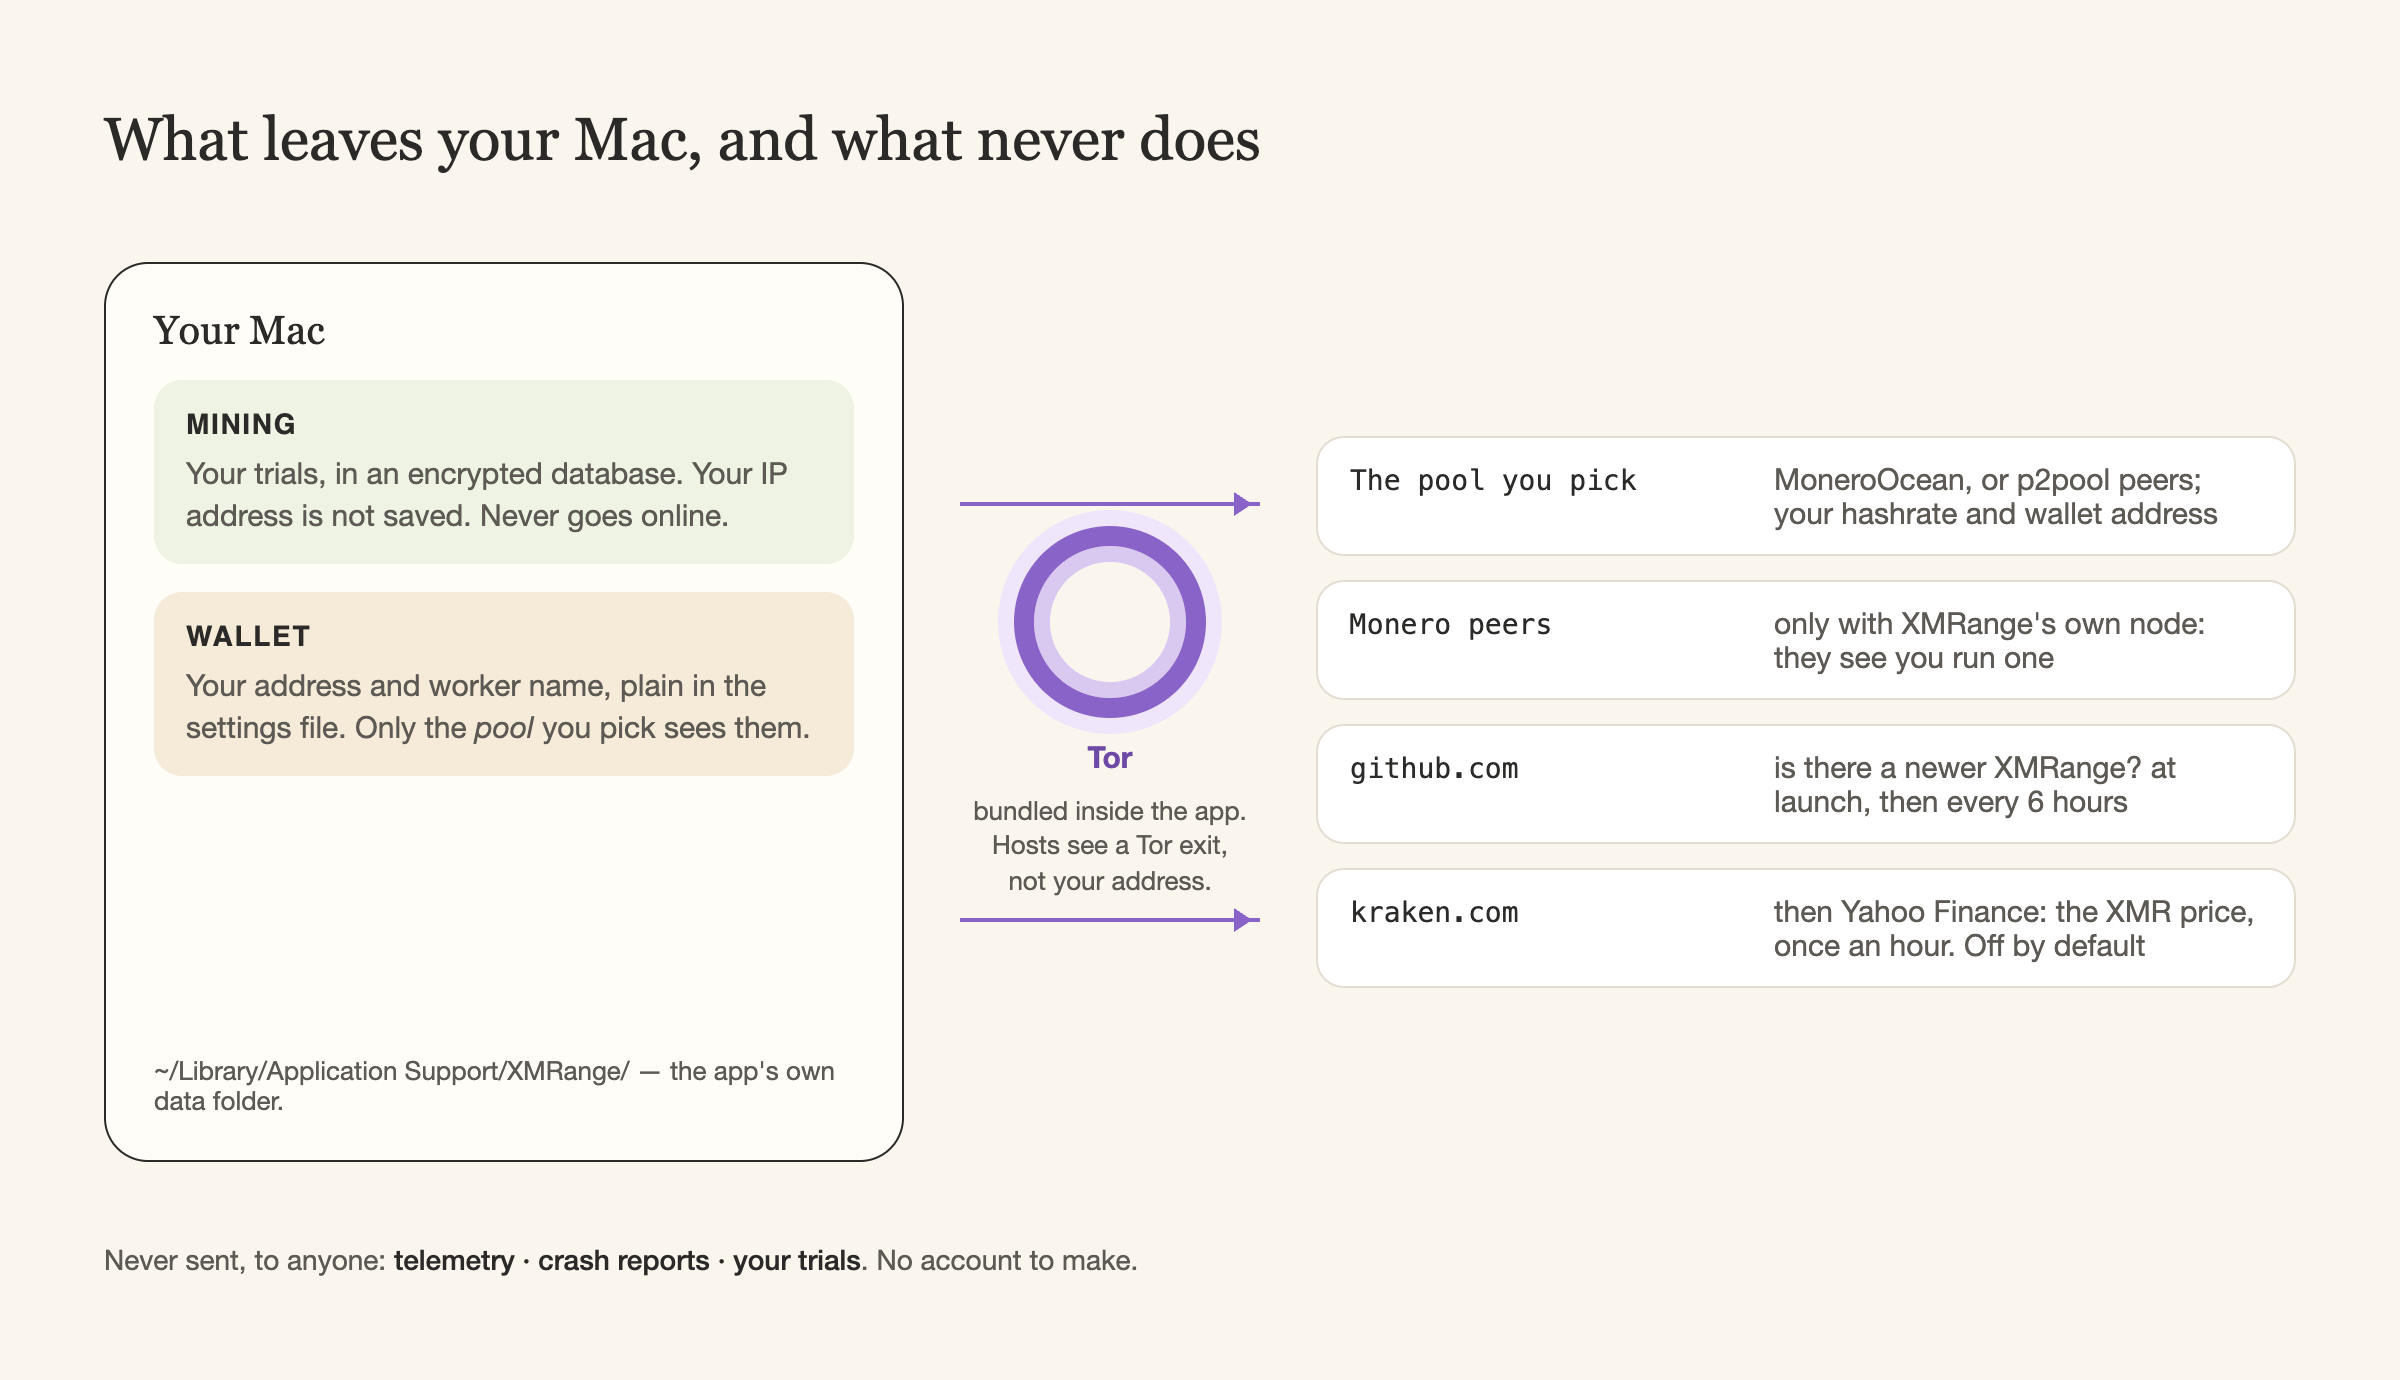
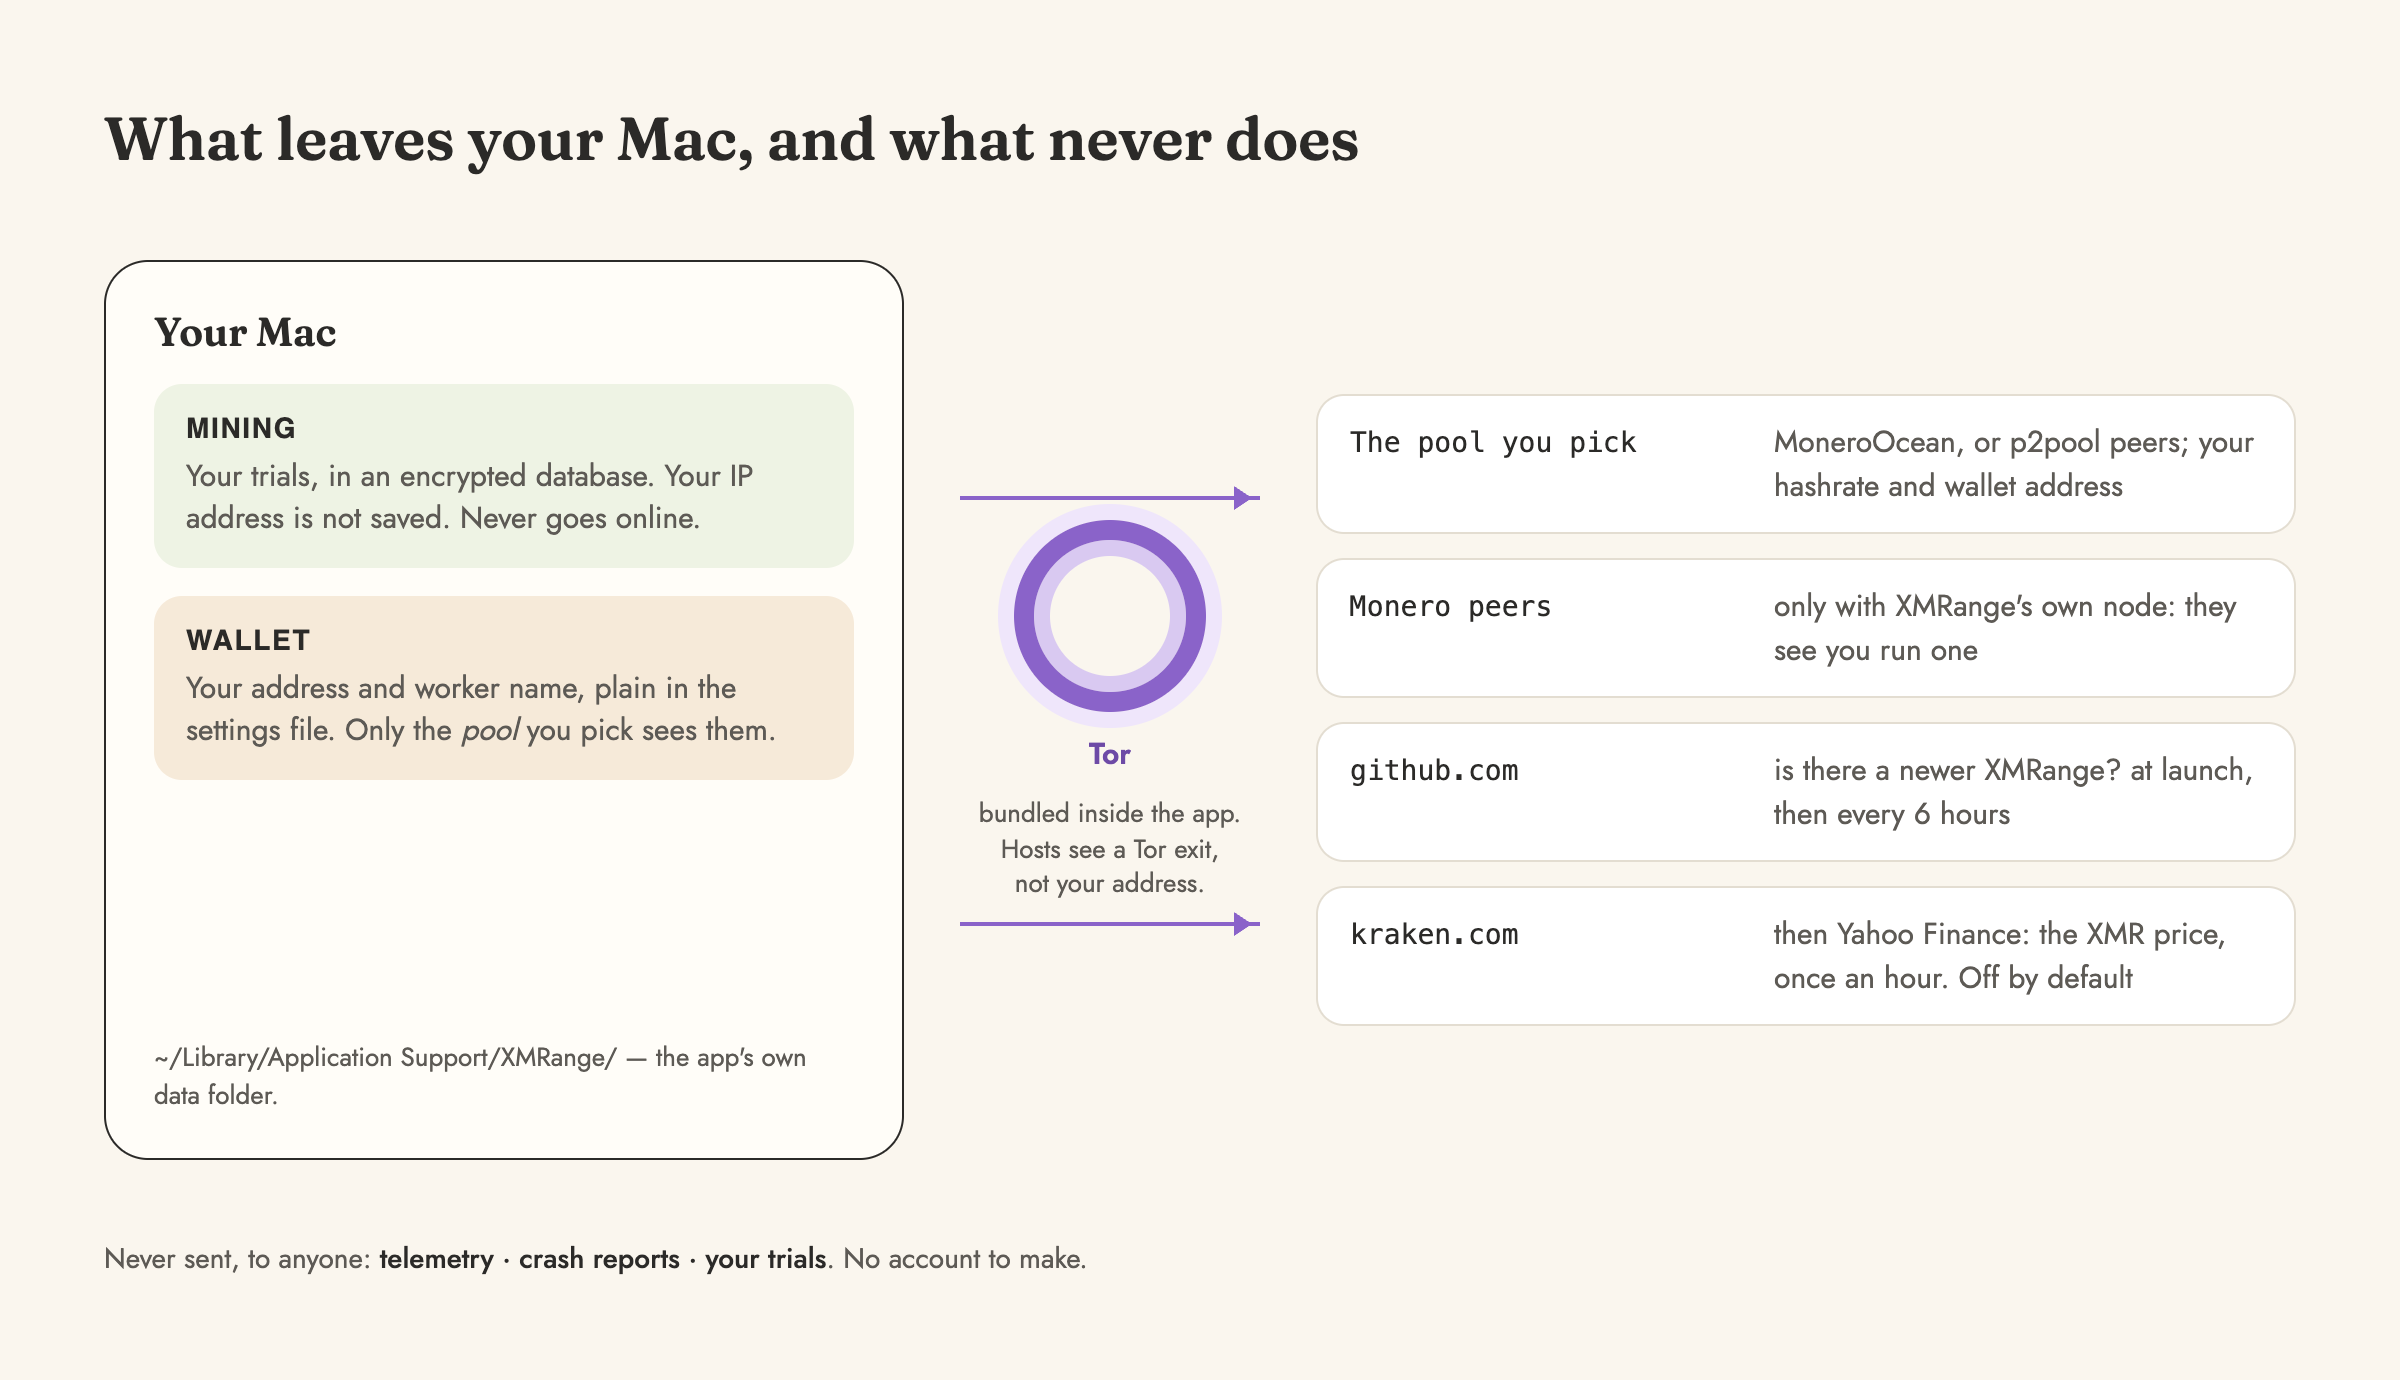
docs: diagrams in House fonts

diff --git a/tools/docs-shots/diagrams/trial-math.html b/tools/docs-shots/diagrams/trial-math.html
@@ -1,7 +1,14 @@
 <!doctype html><meta charset="utf-8"><title>What a trial computes</title>
+<style>
+@font-face{font-family:Fraunces;font-weight:400;src:url(../../../assets/fonts/fraunces-latin-400-normal.woff2)}
+@font-face{font-family:Fraunces;font-weight:500 600;src:url(../../../assets/fonts/fraunces-latin-600-normal.woff2)}
+@font-face{font-family:Jost;font-weight:400;src:url(../../../assets/fonts/jost-latin-400-normal.woff2)}
+@font-face{font-family:Jost;font-weight:500;src:url(../../../assets/fonts/jost-latin-500-normal.woff2)}
+@font-face{font-family:Jost;font-weight:600 700;src:url(../../../assets/fonts/jost-latin-600-normal.woff2)}
+</style>
 <style>*{box-sizing:border-box;margin:0}
-body{width:1200px;height:440px;background:#faf6ee;font:16px -apple-system,"Helvetica Neue",Helvetica,Arial,sans-serif;color:#2b2a28;padding:44px 52px}
-h1{font:500 30px Georgia,"Iowan Old Style",serif;margin-bottom:30px}
+body{width:1200px;height:440px;background:#faf6ee;font:16px Jost,Helvetica,sans-serif;color:#2b2a28;padding:44px 52px}
+h1{font:500 30px Fraunces,serif;margin-bottom:30px}
 .sub{color:#5d5a55;font-size:14px}
 .box{border:1.5px solid #2b2a28;border-radius:18px;background:#fffdf8;padding:20px 24px}
 .card{background:#fff;border:1px solid #e3ddd1;border-radius:14px;padding:14px 18px}
@@ -12,9 +19,9 @@ p{color:#5d5a55;line-height:1.4}
 .arrow:after{content:"";position:absolute;right:-2px;top:-5px;border:6px solid transparent;border-left:9px solid #8a63c9}
 code{font:500 14px ui-monospace,Menlo,monospace}
 .eq{display:flex;align-items:center;gap:22px;margin-bottom:34px}
-.eq .op{font:500 40px Georgia,serif;color:#8a63c9}
+.eq .op{font:500 40px Fraunces,serif;color:#8a63c9}
 .eq .t{flex:1;text-align:center;padding:22px 16px}
-.eq .t b{display:block;font:500 26px Georgia,serif;margin-bottom:4px}
+.eq .t b{display:block;font:500 26px Fraunces,serif;margin-bottom:4px}
 .res{background:#eef3e4;border-color:#d6e0c3}
 .row{display:grid;grid-template-columns:1fr 1fr 1fr;gap:16px;margin-bottom:26px}
 .bar{display:flex;height:44px;border-radius:12px;overflow:hidden;font-weight:600;font-size:14px}

diff --git a/tools/docs-shots/diagrams/trial-flow.html b/tools/docs-shots/diagrams/trial-flow.html
@@ -1,7 +1,14 @@
 <!doctype html><meta charset="utf-8"><title>From trials to profiles</title>
+<style>
+@font-face{font-family:Fraunces;font-weight:400;src:url(../../../assets/fonts/fraunces-latin-400-normal.woff2)}
+@font-face{font-family:Fraunces;font-weight:500 600;src:url(../../../assets/fonts/fraunces-latin-600-normal.woff2)}
+@font-face{font-family:Jost;font-weight:400;src:url(../../../assets/fonts/jost-latin-400-normal.woff2)}
+@font-face{font-family:Jost;font-weight:500;src:url(../../../assets/fonts/jost-latin-500-normal.woff2)}
+@font-face{font-family:Jost;font-weight:600 700;src:url(../../../assets/fonts/jost-latin-600-normal.woff2)}
+</style>
 <style>*{box-sizing:border-box;margin:0}
-body{width:1200px;height:480px;background:#faf6ee;font:16px -apple-system,"Helvetica Neue",Helvetica,Arial,sans-serif;color:#2b2a28;padding:44px 52px}
-h1{font:500 30px Georgia,"Iowan Old Style",serif;margin-bottom:30px}
+body{width:1200px;height:480px;background:#faf6ee;font:16px Jost,Helvetica,sans-serif;color:#2b2a28;padding:44px 52px}
+h1{font:500 30px Fraunces,serif;margin-bottom:30px}
 .sub{color:#5d5a55;font-size:14px}
 .box{border:1.5px solid #2b2a28;border-radius:18px;background:#fffdf8;padding:20px 24px}
 .card{background:#fff;border:1px solid #e3ddd1;border-radius:14px;padding:14px 18px}
@@ -16,9 +23,9 @@ code{font:500 14px ui-monospace,Menlo,monospace}
 .s{background:#fff;border:1px solid #e3ddd1;border-radius:12px;padding:10px 16px}
 .s b{font-weight:600}
 .m{text-align:center;padding:30px 16px;background:#efe6fb;border-color:#d9c9f1}
-.m b{display:block;font:500 24px Georgia,serif;margin-bottom:6px}
+.m b{display:block;font:500 24px Fraunces,serif;margin-bottom:6px}
 .p{display:grid;grid-template-columns:110px 1fr;gap:12px;align-items:baseline}
-.p b{font:500 22px Georgia,serif}
+.p b{font:500 22px Fraunces,serif}
 .cap{font-size:13px;letter-spacing:.06em;text-transform:uppercase;font-weight:600;margin-bottom:10px;color:#5d5a55}
 </style>
 <h1>From settings to Quiet, Balanced and Max</h1>

diff --git a/tools/docs-shots/diagrams/privacy-map.html b/tools/docs-shots/diagrams/privacy-map.html
@@ -1,10 +1,17 @@
 <!doctype html><meta charset="utf-8"><title>What leaves your Mac</title>
 <style>
+@font-face{font-family:Fraunces;font-weight:400;src:url(../../../assets/fonts/fraunces-latin-400-normal.woff2)}
+@font-face{font-family:Fraunces;font-weight:500 600;src:url(../../../assets/fonts/fraunces-latin-600-normal.woff2)}
+@font-face{font-family:Jost;font-weight:400;src:url(../../../assets/fonts/jost-latin-400-normal.woff2)}
+@font-face{font-family:Jost;font-weight:500;src:url(../../../assets/fonts/jost-latin-500-normal.woff2)}
+@font-face{font-family:Jost;font-weight:600 700;src:url(../../../assets/fonts/jost-latin-600-normal.woff2)}
+</style>
+<style>
 *{box-sizing:border-box;margin:0}
-body{width:1200px;height:690px;background:#faf6ee;font:15px -apple-system,"Helvetica Neue",Helvetica,Arial,sans-serif;color:#2b2a28;padding:44px 52px;display:grid;grid-template-columns:400px 150px 1fr;gap:0 28px;align-items:center}
-h1{grid-column:1/-1;font:500 30px Georgia,"Iowan Old Style",serif;margin-bottom:28px}
+body{width:1200px;height:690px;background:#faf6ee;font:15px Jost,Helvetica,sans-serif;color:#2b2a28;padding:44px 52px;display:grid;grid-template-columns:400px 150px 1fr;gap:0 28px;align-items:center}
+h1{grid-column:1/-1;font:500 30px Fraunces,serif;margin-bottom:28px}
 .mac{border:1.5px solid #2b2a28;border-radius:22px;padding:22px 24px;background:#fffdf8;height:450px;display:flex;flex-direction:column;gap:14px}
-.mac b{font:500 20px Georgia,serif}
+.mac b{font:500 20px Fraunces,serif}
 .zone{border-radius:14px;padding:14px 16px}
 .mine{background:#eef3e4}
 .data{background:#f6ead9}
